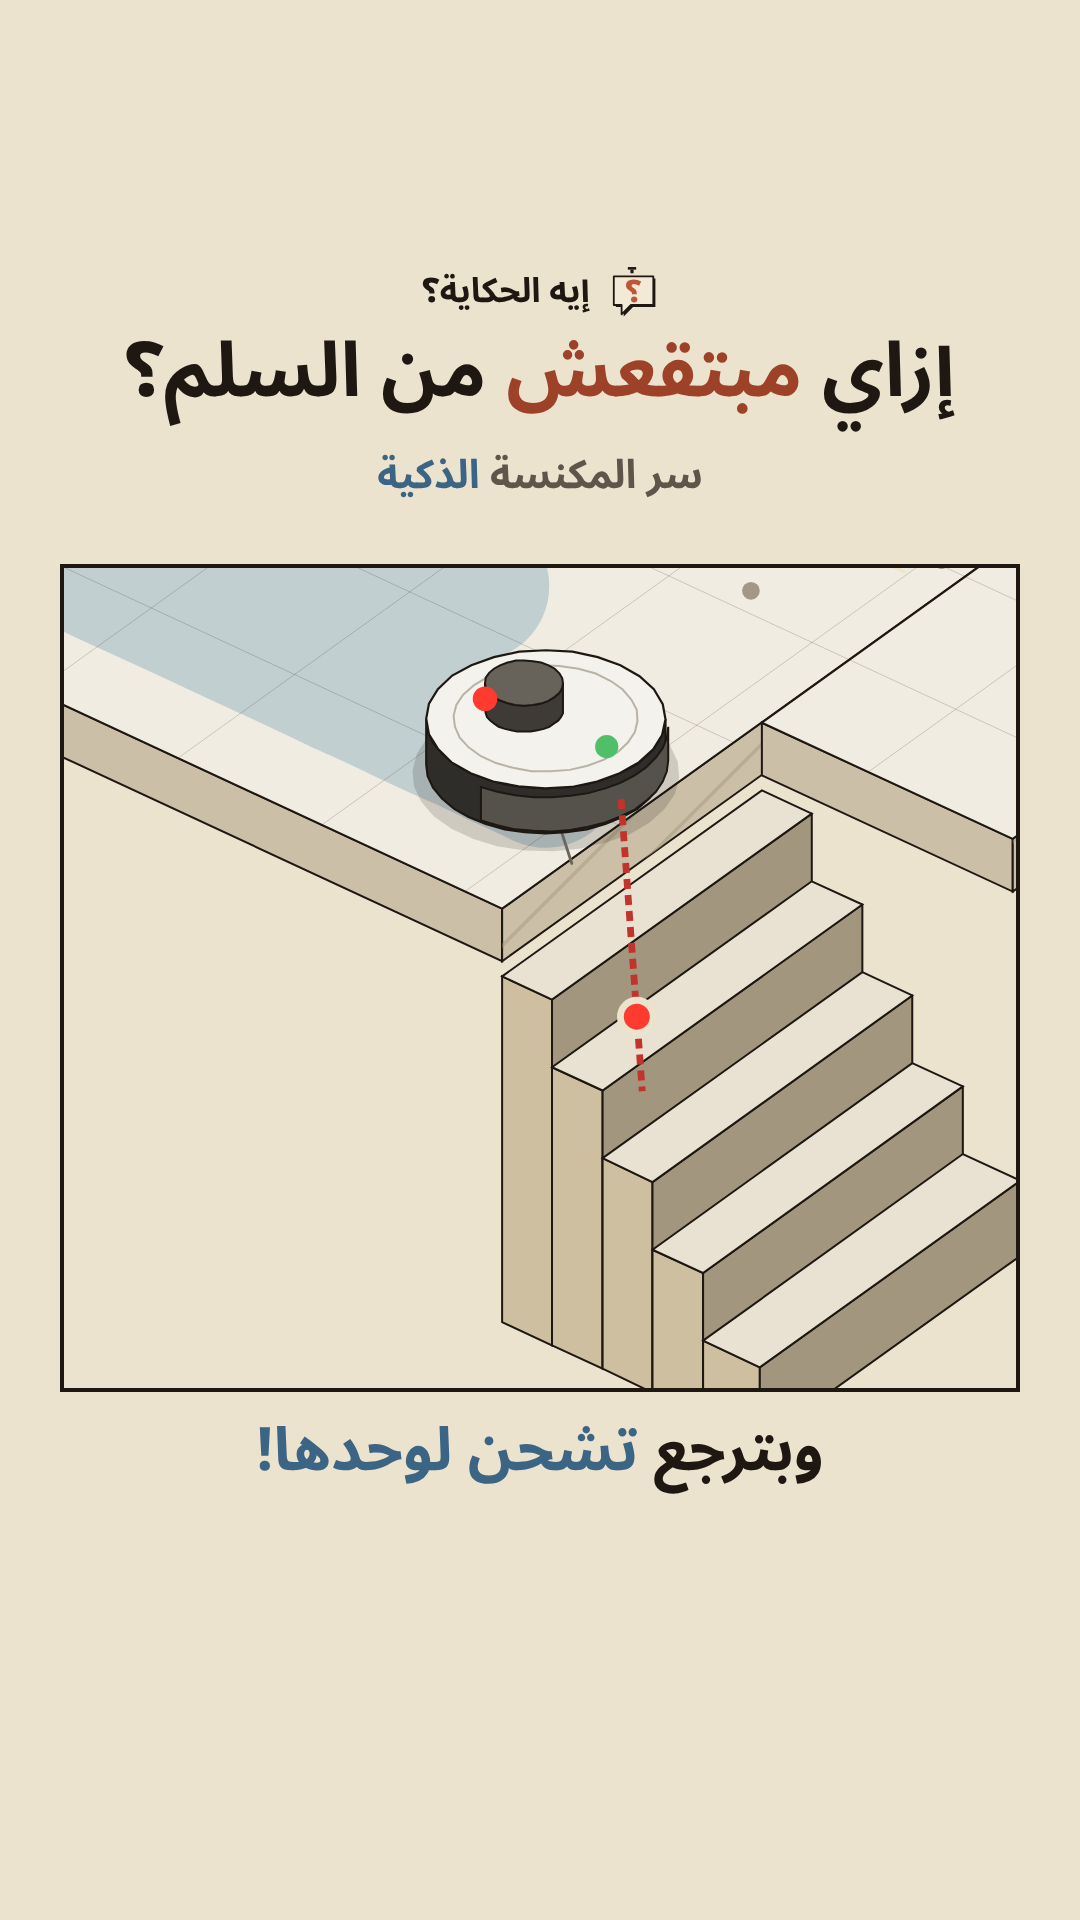
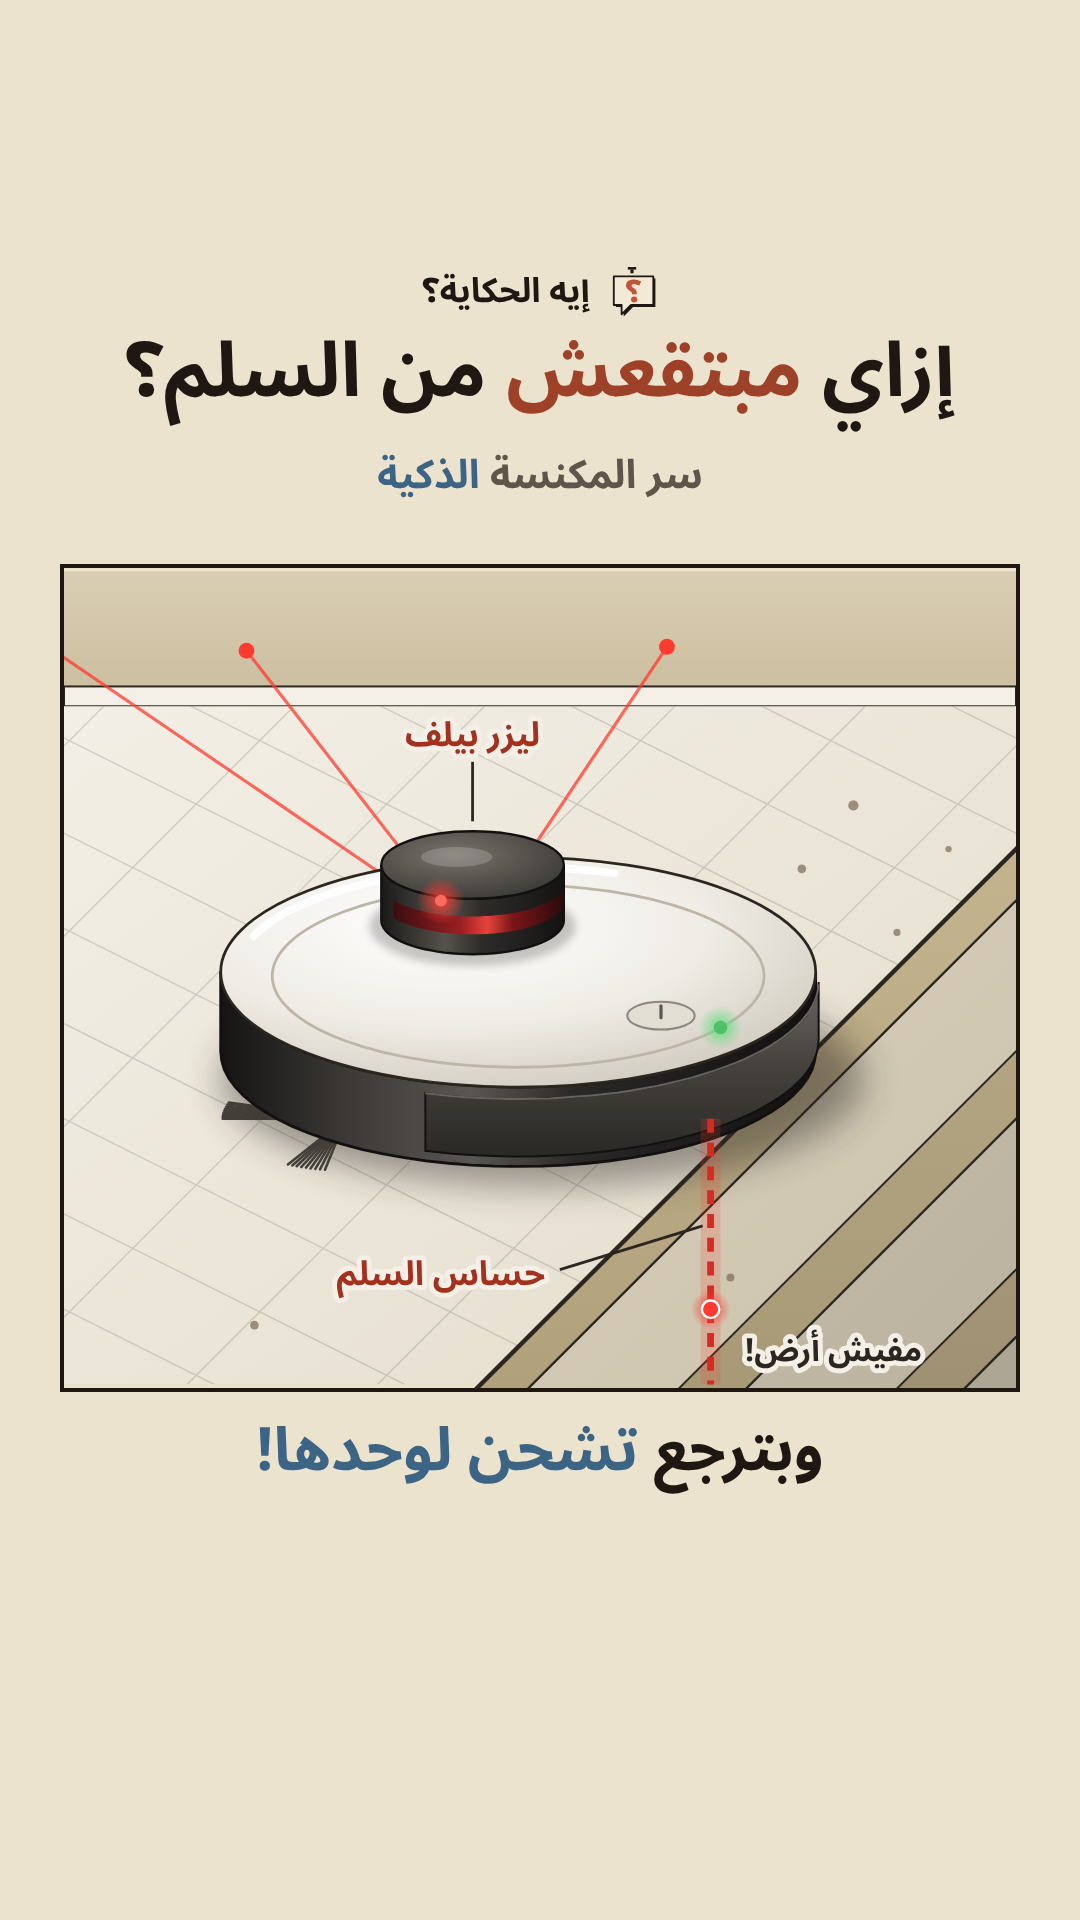
Robot vacuum cover: detailed close-up robot at the stair edge
Claude-Session: https://claude.ai/code/session_012dTfAniKuQkAFVCkp63p6x

Changed region(s): [[0.0611, 0.2812, 0.9472, 0.75]]

diff --git a/brand/eh-elhekaya/cover-robot-vacuum.html b/brand/eh-elhekaya/cover-robot-vacuum.html
@@ -2,11 +2,11 @@
 <html lang="ar" dir="rtl" data-theme="light"><head><meta charset="utf-8"><title>Reel cover — robot vacuum</title>
 <link rel="stylesheet" href="../../design-system/tokens.css"><link rel="stylesheet" href="../../design-system/components/bundle.css">
 <style>
-  /* 540×960 at 2x. Key content in y 120–760. The picture is the video's own scene, drawn live. */
+  /* 540×960 at 2x. Key content in y 120–760. A close-up of the robot at the stair edge, drawn with real materials. */
   body { margin: 0; }
   .cover { position: relative; width: 540px; height: 960px; overflow: hidden; font-family: var(--font-sans); color: var(--ink); background: var(--paper); }
   .shot { position: absolute; left: 30px; right: 30px; top: 282px; height: 410px; border: 2px solid var(--ink); overflow: hidden; background: var(--paper); }
-  .shot svg { position: absolute; left: 50%; top: 50%; width: 480px; height: 650px; translate: -50% -50%; }
+  .shot svg { position: absolute; inset: 0; width: 100%; height: 100%; }
   .t { position: absolute; left: 0; right: 0; text-align: center; margin: 0; }
   /* robot vacuum: isometric flat redrawn every frame, the robot carries the story, live charts, framed close-ups */
   #cstage :is(path) { vector-effect: non-scaling-stroke; }
@@ -84,12 +84,72 @@
   <div class="t" style="top:128px;display:flex;justify-content:center;align-items:center;gap:8px;font:700 17px var(--font-sans)"><svg width="26" height="26" viewBox="0 0 200 200"><use href="#mark"/></svg>إيه الحكاية؟</div>
   <p class="t" style="top:162px;font:800 38px/1.3 var(--font-sans)">إزاي <span style="color:var(--heat-text)">مبتقعش</span> من السلم؟</p>
   <p class="t" style="top:224px;font:700 20px/1.4 var(--font-sans);color:var(--ink-muted)">سر المكنسة <span style="color:var(--water)">الذكية</span></p>
-  <div class="shot"><svg id="cstage" viewBox="0 40 360 488"></svg></div>
+  <div class="shot"><svg viewBox="0 0 480 410" width="476" height="406" style="position:absolute;inset:0;translate:none">
+  <defs>
+    <linearGradient id="gWall" x1="0" y1="0" x2="0" y2="1"><stop offset="0" stop-color="#d9cdb3"/><stop offset="1" stop-color="#cbbd9e"/></linearGradient>
+    <linearGradient id="gFloor" x1="0" y1="0" x2="1" y2="1"><stop offset="0" stop-color="#f3efe6"/><stop offset="1" stop-color="#e4dccb"/></linearGradient>
+    <linearGradient id="gRiser" x1="0" y1="0" x2="0" y2="1"><stop offset="0" stop-color="#c9b993"/><stop offset="1" stop-color="#a99a76"/></linearGradient>
+    <linearGradient id="gTread" x1="0" y1="0" x2="1" y2="1"><stop offset="0" stop-color="#eee6d3"/><stop offset="1" stop-color="#d8ccb2"/></linearGradient>
+    <linearGradient id="gSide" x1="0" y1="0" x2="1" y2="0"><stop offset="0" stop-color="#151413"/><stop offset=".22" stop-color="#3d3a37"/><stop offset=".42" stop-color="#5a5652"/><stop offset=".6" stop-color="#2a2826"/><stop offset="1" stop-color="#121110"/></linearGradient>
+    <linearGradient id="gBump" x1="0" y1="0" x2="0" y2="1"><stop offset="0" stop-color="#6a6660"/><stop offset=".45" stop-color="#47443f"/><stop offset="1" stop-color="#2a2825"/></linearGradient>
+    <radialGradient id="gTop" cx=".38" cy=".3" r=".8"><stop offset="0" stop-color="#ffffff"/><stop offset=".55" stop-color="#efece5"/><stop offset="1" stop-color="#cdc7bb"/></radialGradient>
+    <linearGradient id="gTur" x1="0" y1="0" x2="1" y2="0"><stop offset="0" stop-color="#1b1a18"/><stop offset=".35" stop-color="#55514c"/><stop offset=".55" stop-color="#2e2c29"/><stop offset="1" stop-color="#141312"/></linearGradient>
+    <radialGradient id="gTurTop" cx=".4" cy=".35" r=".8"><stop offset="0" stop-color="#77736c"/><stop offset="1" stop-color="#34322e"/></radialGradient>
+    <linearGradient id="gWin" x1="0" y1="0" x2="1" y2="0"><stop offset="0" stop-color="#3a0d10"/><stop offset=".4" stop-color="#9c1f22"/><stop offset=".55" stop-color="#e2453c"/><stop offset=".7" stop-color="#7a1518"/><stop offset="1" stop-color="#2a0a0c"/></linearGradient>
+    <radialGradient id="gGlowR"><stop offset="0" stop-color="#ff3b2f" stop-opacity=".9"/><stop offset="1" stop-color="#ff3b2f" stop-opacity="0"/></radialGradient>
+    <radialGradient id="gGlowG"><stop offset="0" stop-color="#5dde7a" stop-opacity=".9"/><stop offset="1" stop-color="#5dde7a" stop-opacity="0"/></radialGradient>
+    <filter id="fBlur" x="-30%" y="-30%" width="160%" height="160%"><feGaussianBlur stdDeviation="9"/></filter>
+    <filter id="fSoft"><feGaussianBlur stdDeviation="2.2"/></filter>
+    <clipPath id="cFloor"><path d="M0 68 H480 V140 L210 410 H0 Z"/></clipPath>
+  </defs>
+  <!-- wall + baseboard -->
+  <rect x="0" y="0" width="480" height="66" fill="url(#gWall)"/><rect x="0" y="58" width="480" height="10" fill="#f4f0e7" stroke="#2b2620" stroke-width="1"/>
+  <!-- floor -->
+  <path d="M0 68 H480 V140 L210 410 H0 Z" fill="url(#gFloor)"/>
+  <g clip-path="url(#cFloor)" style="stroke:#2b2620;stroke-width:.7;opacity:.16"><path d="M-200 0 L-800 600"/><path d="M-104 0 L-704 600"/><path d="M-8 0 L-608 600"/><path d="M88 0 L-512 600"/><path d="M184 0 L-416 600"/><path d="M280 0 L-320 600"/><path d="M376 0 L-224 600"/><path d="M472 0 L-128 600"/><path d="M568 0 L-32 600"/><path d="M664 0 L64 600"/><path d="M760 0 L160 600"/><path d="M856 0 L256 600"/><path d="M952 0 L352 600"/><path d="M-50 -325 L600 0"/><path d="M-50 -277 L600 48"/><path d="M-50 -229 L600 96"/><path d="M-50 -181 L600 144"/><path d="M-50 -133 L600 192"/><path d="M-50 -85 L600 240"/><path d="M-50 -37 L600 288"/><path d="M-50 11 L600 336"/><path d="M-50 59 L600 384"/><path d="M-50 107 L600 432"/><path d="M-50 155 L600 480"/><path d="M-50 203 L600 528"/><path d="M-50 251 L600 576"/><path d="M-50 299 L600 624"/><path d="M-50 347 L600 672"/><path d="M-50 395 L600 720"/><path d="M-50 443 L600 768"/><path d="M-50 491 L600 816"/><path d="M-50 539 L600 864"/></g>
+  <!-- stairs going down past the edge -->
+  <g><path d="M560.0 60.0 L130.0 490.0 L130.0 516.0 L560.0 86.0 Z" fill="url(#gRiser)"/><path d="M560.0 60.0 L130.0 490.0" style="stroke:#2b2620;stroke-width:1"/><path d="M560.0 86.0 L130.0 516.0 L168.0 554.0 L598.0 124.0 Z" fill="url(#gTread)"/><path d="M560.0 86.0 L130.0 516.0 L168.0 554.0 L598.0 124.0 Z" fill="#000" style="opacity:0.08"/><path d="M560.0 86.0 L130.0 516.0" style="stroke:#2b2620;stroke-width:1.2"/><path d="M598.0 124.0 L168.0 554.0 L168.0 588.0 L598.0 158.0 Z" fill="url(#gRiser)"/><path d="M598.0 124.0 L168.0 554.0 L168.0 588.0 L598.0 158.0 Z" fill="#000" style="opacity:0.07"/><path d="M598.0 124.0 L168.0 554.0" style="stroke:#2b2620;stroke-width:1"/><path d="M598.0 158.0 L168.0 588.0 L206.0 626.0 L636.0 196.0 Z" fill="url(#gTread)"/><path d="M598.0 158.0 L168.0 588.0 L206.0 626.0 L636.0 196.0 Z" fill="#000" style="opacity:0.16"/><path d="M598.0 158.0 L168.0 588.0" style="stroke:#2b2620;stroke-width:1.2"/><path d="M636.0 196.0 L206.0 626.0 L206.0 660.0 L636.0 230.0 Z" fill="url(#gRiser)"/><path d="M636.0 196.0 L206.0 626.0 L206.0 660.0 L636.0 230.0 Z" fill="#000" style="opacity:0.14"/><path d="M636.0 196.0 L206.0 626.0" style="stroke:#2b2620;stroke-width:1"/><path d="M636.0 230.0 L206.0 660.0 L244.0 698.0 L674.0 268.0 Z" fill="url(#gTread)"/><path d="M636.0 230.0 L206.0 660.0 L244.0 698.0 L674.0 268.0 Z" fill="#000" style="opacity:0.24"/><path d="M636.0 230.0 L206.0 660.0" style="stroke:#2b2620;stroke-width:1.2"/><path d="M674.0 268.0 L244.0 698.0 L244.0 732.0 L674.0 302.0 Z" fill="url(#gRiser)"/><path d="M674.0 268.0 L244.0 698.0 L244.0 732.0 L674.0 302.0 Z" fill="#000" style="opacity:0.21"/><path d="M674.0 268.0 L244.0 698.0" style="stroke:#2b2620;stroke-width:1"/><path d="M674.0 302.0 L244.0 732.0 L282.0 770.0 L712.0 340.0 Z" fill="url(#gTread)"/><path d="M674.0 302.0 L244.0 732.0 L282.0 770.0 L712.0 340.0 Z" fill="#000" style="opacity:0.32"/><path d="M674.0 302.0 L244.0 732.0" style="stroke:#2b2620;stroke-width:1.2"/><path d="M712.0 340.0 L282.0 770.0 L282.0 804.0 L712.0 374.0 Z" fill="url(#gRiser)"/><path d="M712.0 340.0 L282.0 770.0 L282.0 804.0 L712.0 374.0 Z" fill="#000" style="opacity:0.28"/><path d="M712.0 340.0 L282.0 770.0" style="stroke:#2b2620;stroke-width:1"/><path d="M712.0 374.0 L282.0 804.0 L320.0 842.0 L750.0 412.0 Z" fill="url(#gTread)"/><path d="M712.0 374.0 L282.0 804.0 L320.0 842.0 L750.0 412.0 Z" fill="#000" style="opacity:0.40"/><path d="M712.0 374.0 L282.0 804.0" style="stroke:#2b2620;stroke-width:1.2"/></g>
+  <path d="M560 60 L130 490" style="stroke:#2b2620;stroke-width:2.2"/>
+  <!-- dust it hasn't reached yet -->
+  <g fill="#7a6a55" opacity=".7"><circle cx="372" cy="150" r="2.2"/><circle cx="420" cy="182" r="1.8"/><circle cx="398" cy="118" r="2.6"/><circle cx="446" cy="140" r="1.6"/><circle cx="336" cy="356" r="2"/><circle cx="96" cy="380" r="2.2"/></g>
+  <g transform="translate(-26 -24)">
+  <!-- laser rays from the turret -->
+  <g style="stroke:#ff3b2f;stroke-width:1.6;opacity:.75"><path d="M200 186 L18 62"/><path d="M250 182 L330 62"/><path d="M216 190 L118 64"/></g>
+  <g fill="#ff3b2f"><circle cx="18" cy="62" r="4"/><circle cx="330" cy="62" r="4"/><circle cx="118" cy="64" r="4"/></g>
+  <!-- shadow -->
+  <ellipse cx="267" cy="280" rx="162" ry="54" fill="#2b2620" opacity=".45" filter="url(#fBlur)"/>
+  <!-- side brush bristles poking out at the front -->
+  <g style="stroke:#3d3832;stroke-width:1.3;stroke-linecap:round;opacity:.95"><path d="M168.0 300.0 L157.6 325.7"/><path d="M168.0 300.0 L155.1 325.5"/><path d="M168.0 300.0 L152.7 325.2"/><path d="M168.0 300.0 L150.3 325.0"/><path d="M168.0 300.0 L148.0 324.6"/><path d="M168.0 300.0 L145.6 324.3"/><path d="M168.0 300.0 L143.3 323.9"/><path d="M168.0 300.0 L141.1 323.5"/><path d="M168.0 300.0 L138.9 323.0"/><path d="M168.0 300.0 L106.0 300.0"/><path d="M168.0 300.0 L106.0 299.0"/><path d="M168.0 300.0 L106.2 298.0"/><path d="M168.0 300.0 L106.4 296.9"/><path d="M168.0 300.0 L106.8 295.9"/><path d="M168.0 300.0 L107.2 294.9"/><path d="M168.0 300.0 L107.8 293.9"/><path d="M168.0 300.0 L108.4 292.8"/><path d="M168.0 300.0 L109.1 291.8"/><path d="M168.0 300.0 L169.7 274.0"/><path d="M168.0 300.0 L172.2 274.0"/><path d="M168.0 300.0 L174.7 274.1"/><path d="M168.0 300.0 L177.1 274.2"/><path d="M168.0 300.0 L179.6 274.4"/><path d="M168.0 300.0 L182.0 274.6"/><path d="M168.0 300.0 L184.4 274.9"/><path d="M168.0 300.0 L186.8 275.2"/><path d="M168.0 300.0 L189.1 275.5"/></g>
+  <ellipse cx="168" cy="300" rx="8" ry="4" fill="#2b2620"/>
+  <!-- body -->
+  <path d="M405.0 226.0 404.5 230.6 403.2 235.1 400.9 239.5 397.7 243.9 393.6 248.2 388.7 252.3 382.9 256.3 376.4 260.1 369.1 263.7 361.1 267.0 352.4 270.1 343.2 272.9 333.4 275.5 323.1 277.7 312.4 279.6 301.4 281.2 290.0 282.4 278.5 283.3 266.8 283.8 255.0 284.0 243.2 283.8 231.5 283.3 220.0 282.4 208.6 281.2 197.6 279.6 186.9 277.7 176.6 275.5 166.8 272.9 157.6 270.1 148.9 267.0 140.9 263.7 133.6 260.1 127.1 256.3 121.3 252.3 116.4 248.2 112.3 243.9 109.1 239.5 106.8 235.1 105.5 230.6 105.0 226.0 L105.0 266.0 105.5 270.6 106.8 275.1 109.1 279.5 112.3 283.9 116.4 288.2 121.3 292.3 127.1 296.3 133.6 300.1 140.9 303.7 148.9 307.0 157.6 310.1 166.8 312.9 176.6 315.5 186.9 317.7 197.6 319.6 208.6 321.2 220.0 322.4 231.5 323.3 243.2 323.8 255.0 324.0 266.8 323.8 278.5 323.3 290.0 322.4 301.4 321.2 312.4 319.6 323.1 317.7 333.4 315.5 343.2 312.9 352.4 310.1 361.1 307.0 369.1 303.7 376.4 300.1 382.9 296.3 388.7 292.3 393.6 288.2 397.7 283.9 400.9 279.5 403.2 275.1 404.5 270.6 405.0 266.0 Z" fill="url(#gSide)" stroke="#121110" stroke-width="1.4"/>
+  <path d="M406.5 231.0 406.3 233.8 405.8 236.6 405.0 239.3 403.8 242.1 402.3 244.8 400.5 247.5 398.3 250.1 395.9 252.7 393.1 255.3 390.0 257.8 386.6 260.2 382.9 262.6 378.9 264.9 374.7 267.2 370.2 269.3 365.4 271.4 360.4 273.4 355.2 275.3 349.7 277.0 344.0 278.7 338.2 280.3 332.1 281.8 325.9 283.1 319.5 284.4 313.0 285.5 306.3 286.5 299.5 287.4 292.7 288.1 285.7 288.8 278.7 289.3 271.6 289.6 264.5 289.9 257.4 290.0 250.2 290.0 243.1 289.8 236.0 289.5 229.0 289.1 222.0 288.6 215.0 287.9 208.2 287.1 L208.2 316.1 215.0 316.9 222.0 317.6 229.0 318.1 236.0 318.5 243.1 318.8 250.2 319.0 257.4 319.0 264.5 318.9 271.6 318.6 278.7 318.3 285.7 317.8 292.7 317.1 299.5 316.4 306.3 315.5 313.0 314.5 319.5 313.4 325.9 312.1 332.1 310.8 338.2 309.3 344.0 307.7 349.7 306.0 355.2 304.3 360.4 302.4 365.4 300.4 370.2 298.3 374.7 296.2 378.9 293.9 382.9 291.6 386.6 289.2 390.0 286.8 393.1 284.3 395.9 281.7 398.3 279.1 400.5 276.5 402.3 273.8 403.8 271.1 405.0 268.3 405.8 265.6 406.3 262.8 406.5 260.0 Z" fill="url(#gBump)" stroke="#121110" stroke-width="1"/>
+  <path d="M406.5 232.2 406.2 234.9 405.5 237.7 404.6 240.4 403.3 243.1 401.7 245.8 399.7 248.4 397.5 251.0 395.0 253.6 392.1 256.1 388.9 258.6 385.5 261.0 381.8 263.3 377.8 265.6 373.5 267.8 369.0 269.9 364.2 271.9 359.2 273.8 353.9 275.7 348.5 277.4 342.8 279.1 337.0 280.6 330.9 282.1 324.8 283.4 318.4 284.6 311.9 285.7 305.3 286.7 298.6 287.5 291.8 288.2 284.9 288.8 278.0 289.3 270.9 289.7 263.9 289.9 256.8 290.0 249.8 290.0 242.7 289.8 235.7 289.5 228.7 289.1 221.8 288.6 215.0 287.9 208.2 287.1" fill="none" stroke="#8a857d" stroke-width="1" opacity=".7"/>
+  <ellipse cx="255" cy="226" rx="150" ry="58" fill="url(#gTop)" stroke="#2b2620" stroke-width="1.4"/>
+  <ellipse cx="255" cy="228" rx="124" ry="46" fill="none" stroke="#bdb6a8" stroke-width="1.4"/>
+  <path d="M121.6 207.9 123.6 205.9 125.8 204.0 128.2 202.1 130.8 200.3 133.6 198.5 136.6 196.7 139.8 195.0 143.1 193.4 146.6 191.8 150.3 190.2 154.2 188.7 158.2 187.2 162.3 185.8 166.6 184.5 171.0 183.3 175.6 182.1 180.3 180.9 185.1 179.9 190.0 178.9 195.0 178.0 200.1 177.1 205.3 176.4 210.5 175.7 215.9 175.1 221.2 174.5 226.7 174.1 232.2 173.7 237.7 173.4 243.2 173.2 248.8 173.1 254.4 173.0 260.0 173.0 265.5 173.1 271.1 173.3 276.6 173.6 282.1 174.0 287.5 174.4 292.9 174.9 298.3 175.5 303.6 176.2" fill="none" stroke="#fff" stroke-width="4" stroke-linecap="round" opacity=".9"/>
+  <!-- power button + status light -->
+  <ellipse cx="327" cy="248" rx="17" ry="7" fill="#e3ded4" stroke="#8a857d"/><path d="M327 243 v6" stroke="#5a5652" stroke-width="1.6" stroke-linecap="round"/>
+  <circle cx="357" cy="254" r="11" fill="url(#gGlowG)"/><circle cx="357" cy="254" r="3.4" fill="#4fbf6a"/>
+  <!-- lidar turret -->
+  <ellipse cx="232" cy="203" rx="52" ry="20" fill="#2b2620" opacity=".25" filter="url(#fSoft)"/>
+  <path d="M278.0 172.0 277.9 173.3 277.4 174.7 276.7 176.0 275.7 177.3 274.5 178.5 273.0 179.7 271.2 180.9 269.2 182.0 267.0 183.0 264.5 184.0 261.9 184.9 259.0 185.8 256.0 186.5 252.9 187.1 249.6 187.7 246.2 188.2 242.7 188.5 239.2 188.8 235.6 188.9 232.0 189.0 228.4 188.9 224.8 188.8 221.3 188.5 217.8 188.2 214.4 187.7 211.1 187.1 208.0 186.5 205.0 185.8 202.1 184.9 199.5 184.0 197.0 183.0 194.8 182.0 192.8 180.9 191.0 179.7 189.5 178.5 188.3 177.3 187.3 176.0 186.6 174.7 186.1 173.3 186.0 172.0 L186.0 200.0 186.1 201.3 186.6 202.7 187.3 204.0 188.3 205.3 189.5 206.5 191.0 207.7 192.8 208.9 194.8 210.0 197.0 211.0 199.5 212.0 202.1 212.9 205.0 213.8 208.0 214.5 211.1 215.1 214.4 215.7 217.8 216.2 221.3 216.5 224.8 216.8 228.4 216.9 232.0 217.0 235.6 216.9 239.2 216.8 242.7 216.5 246.2 216.2 249.6 215.7 252.9 215.1 256.0 214.5 259.0 213.8 261.9 212.9 264.5 212.0 267.0 211.0 269.2 210.0 271.2 208.9 273.0 207.7 274.5 206.5 275.7 205.3 276.7 204.0 277.4 202.7 277.9 201.3 278.0 200.0 Z" fill="url(#gTur)" stroke="#121110" stroke-width="1.2"/>
+  <path d="M278.0 183.5 277.5 184.6 276.8 185.6 275.9 186.6 274.9 187.5 273.7 188.5 272.4 189.4 270.9 190.3 269.3 191.2 267.5 192.0 265.6 192.7 263.6 193.5 261.4 194.2 259.2 194.8 256.8 195.4 254.4 195.9 251.8 196.4 249.2 196.8 246.6 197.1 243.8 197.4 241.0 197.7 238.2 197.8 235.4 198.0 232.6 198.0 229.7 198.0 226.9 197.9 224.1 197.8 221.3 197.5 218.5 197.3 215.8 196.9 213.2 196.5 210.6 196.1 208.1 195.6 205.7 195.0 203.4 194.4 201.2 193.7 199.2 193.0 197.2 192.3 195.4 191.5 193.7 190.6 192.2 189.8 L192.2 198.8 193.7 199.6 195.4 200.5 197.2 201.3 199.2 202.0 201.2 202.7 203.4 203.4 205.7 204.0 208.1 204.6 210.6 205.1 213.2 205.5 215.8 205.9 218.5 206.3 221.3 206.5 224.1 206.8 226.9 206.9 229.7 207.0 232.6 207.0 235.4 207.0 238.2 206.8 241.0 206.7 243.8 206.4 246.6 206.1 249.2 205.8 251.8 205.4 254.4 204.9 256.8 204.4 259.2 203.8 261.4 203.2 263.6 202.5 265.6 201.7 267.5 201.0 269.3 200.2 270.9 199.3 272.4 198.4 273.7 197.5 274.9 196.5 275.9 195.6 276.8 194.6 277.5 193.6 278.0 192.5 Z" fill="url(#gWin)"/>
+  <ellipse cx="232" cy="172" rx="46" ry="17" fill="url(#gTurTop)" stroke="#121110" stroke-width="1.2"/>
+  <ellipse cx="224" cy="168" rx="18" ry="5" fill="#fff" opacity=".18"/>
+  <circle cx="216" cy="190" r="12" fill="url(#gGlowR)"/><circle cx="216" cy="190" r="3" fill="#ff6a5e"/>
+  </g>
+  <!-- cliff sensor: infrared beam goes over the edge and finds nothing -->
+  <path d="M326 276 L326 410" style="stroke:#ff3b2f;stroke-width:10;opacity:.18"/>
+  <path d="M326 276 L326 410" style="stroke:#d42b22;stroke-width:3.4;stroke-dasharray:7 5"/>
+  <circle cx="326" cy="372" r="10" fill="url(#gGlowR)"/><circle cx="326" cy="372" r="4.4" fill="#ff3b2f" stroke="#fff" stroke-width="1.2"/>
+  <!-- labels -->
+  <g style="font:800 17px var(--font-sans);paint-order:stroke;stroke:#f4f0e7;stroke-width:5px;stroke-linejoin:round">
+    <path d="M206 126 L206 96" style="stroke:#2b2620;stroke-width:1.4"/><text x="206" y="88" text-anchor="middle" fill="#a2321e">ليزر بيلف</text>
+    <path d="M322 330 L250 352" style="stroke:#2b2620;stroke-width:1.4"/><text x="190" y="360" text-anchor="middle" fill="#a2321e">حساس السلم</text>
+    <text x="388" y="398" text-anchor="middle" fill="#2b2620" style="font-size:16px">مفيش أرض!</text>
+  </g>
+</svg></div>
   <p class="t" style="top:706px;font:800 30px/1.3 var(--font-sans)">وبترجع <span style="color:var(--water)">تشحن لوحدها!</span></p>
 </div>
-<script src="../../videos/robot-vacuum/timing.js"></script>
-<script src="../../design-system/components/bundle.js"></script>
-<script>TebEzay.patterns();</script>
-<script src="../../videos/robot-vacuum/world.js"></script>
-<script>(function () { var L = function (i) { return TIMING.lines[i].start; }; window.__flat(document.getElementById("cstage"), L(15) + 1.2); })();</script>
 </body></html>
